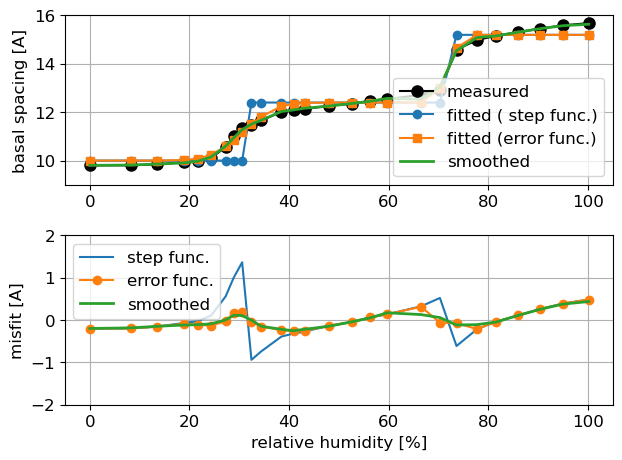
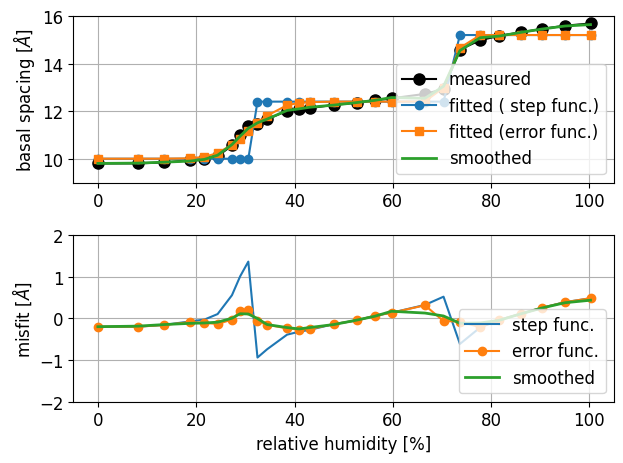
Canonical hydration energy(0th version)

Changed region(s): [[0.0, 0.487, 1.0, 0.9739], [0.0, 0.0, 0.9775, 0.4565]]

diff --git a/index.html b/index.html
@@ -236,6 +236,38 @@ CG系の粒子間相互作用エネルギーは，次のようなLenard-Jones(LJ
 		\label{eqn:MD_sw}
 	\end{equation}
 	を数値的にモデル化して使用可能な状態にすること．
+<li>01/16(Mon.)<br>
+	MD計算結果(MD_Data/
+	<a href="MD_Data/NaMt.dat">NaMt.dat</a>, 
+	<a href="MD_Data/CaMt.dat">CaMt.dat</a>)
+	<br>
+	いずれも水分子数0のときのデータを1行目に加筆.<br>
+	<br>
+	dn/dhの計算とグラフ表示には
+	<a href="MD_Data/mk_dndh.py">mk_dndh.py</a> --> mk_dndh.png(画像), mk_dndh.dat(データ)
+	を使用.<br>
+	<figure>
+	<center>
+		<img src="MD_Data/mk_dndh.png", width=500, height=400></img>
+		<figcaption>全原子MD解析で得られた水分子数\(n\)と層間距離\(h\)の関係(上)と，
+			層間距離に対する水分子数の増加率(下).
+		</figcaption>
+	</center>
+	</figure>
+	<br>
+	データ補間と水和エネルギーモデルの作成(<a href="uhyd.py">uhyd.py</a>)<br>
+	数値データは<a href="uhyd.dat">uhyd.dat</a>に保存される．
+	<br>
+	<figure>
+	<center>
+		<img src="uhyd.png", width=400, height=300></img>
+		<figcaption>
+		XRDデータ(rH_x.dat)とMDデータ(mk_dndh.dat)を元にしてモデル化した水和エネルギー関数.
+		</figcaption>
+	</center>
+	</figure>
+
+</li>
 </ul>
 <br>
 CG-MDのLJポテンシャル、d-N変換式の定式化

diff --git a/uhyd.py b/uhyd.py
@@ -1,0 +1,189 @@
+import numpy as np
+import matplotlib.pyplot as plt
+
+
+class MEAS:
+    def __init__(self,fname="rH_x.dat"):
+        fp=open(fname,"r")
+        fp.readline()
+
+        rH=[]
+        hz=[]
+        for row in fp:
+            dat=row.strip().split(",")
+            rH.append(float(dat[0]))
+            hz.append(float(dat[1]))
+        fp.close()
+
+        self.rH=np.array(rH)
+        self.hz=np.array(hz)
+    def plot(self,ax):
+        ax.plot(self.rH*100,self.hz,"ko-",markersize=8)
+        ax.set_xlabel("relative humidity [%]")
+        ax.set_ylabel("basal spacing [$\AA$]")
+        ax.grid(True)
+    def get_seg_ID(self,hz):
+        if hz<self.hz[0]:
+            return(-1)
+        if hz>=self.hz[-1]:
+            return(len(self.hz))
+
+        indx=np.argmin(np.abs(self.hz-hz))
+        h0=self.hz[indx]
+        dh=hz-h0
+        if dh>0:
+            return(indx)
+        else:
+            return(indx-1)
+
+    def rH_val(self,hz):
+        i1=self.get_seg_ID(hz);
+        if i1<0:
+            return(self.rH[0])
+        if i1>= len(self.hz):
+            return(self.rH[-1])
+        i2=i1+1
+        xi=(hz-self.hz[i1])/(self.hz[i2]-self.hz[i1])
+        eta=1.-xi
+        return(self.rH[i1]*eta+self.rH[i2]*xi)
+    """
+    def rH_val(self,hz):
+        if hz<self.hz[0]:
+            return(self.rH[0])
+        if hz>=self.hz[-1]:
+            return(self.rH[-1])
+
+        indx=np.argmin(np.abs(self.hz-hz))
+
+        h0=self.hz[indx]
+        dh=hz-h0
+        if dh>0:
+            i1=indx
+            i2=i1+1
+            xi=dh/(self.hz[i2]-self.hz[i1])
+            eta=1.-xi
+            return(self.rH[i1]*eta+self.rH[i2]*xi)
+        else:
+            i2=indx
+            i1=i2-1
+            eta=-dh/(self.hz[i2]-self.hz[i1])
+            xi=1.-eta
+            return(self.rH[i1]*eta+self.rH[i2]*xi)
+    """
+
+
+class SIM:
+    def __init__(self,fname):
+        fp=open(fname,"r")
+        fp.readline()
+        hz=[]
+        nH2O=[]
+        dndh=[]
+        for row in fp:
+            data=row.strip().split(",")
+            hz.append(float(data[0]))
+            nH2O.append(float(data[2]))
+            dndh.append(float(data[4]))
+
+        self.hz=np.array(hz)
+        self.nH2O=np.array(nH2O)
+        self.dndh=np.array(dndh)
+
+    def plot_nH2O(self,ax):
+        ax.plot(self.hz,self.nH2O,"ko-",markersize=8)
+        ax.set_xlabel("basal spacing [$\AA$]")
+        ax.set_ylabel("n(H2O)")
+        ax.grid(True)
+    def plot_dndh(self,ax):
+        ax.plot(self.hz,self.dndh,"ko-",markersize=8)
+        ax.set_xlabel("basal spacing [$\AA$]")
+        ax.set_ylabel("dn/dh[/$\AA$]")
+        ax.grid(True)
+
+    def get_seg_ID(self,hz):
+        if hz<self.hz[0]:
+            return(-1)
+        if hz>=self.hz[-1]:
+            return(len(self.hz))
+
+        indx=np.argmin(np.abs(self.hz-hz))
+        h0=self.hz[indx]
+        dh=hz-h0
+        if dh>0:
+            return(indx)
+        else:
+            return(indx-1)
+
+    def nH2O_val(self,hz):
+        i1=self.get_seg_ID(hz);
+        if i1<0:
+            return(self.nH2O[0])
+        if i1>= len(self.hz):
+            return(self.nH2O[-1])
+        i2=i1+1
+        xi=(hz-self.hz[i1])/(self.hz[i2]-self.hz[i1])
+        eta=1.-xi
+        return(self.nH2O[i1]*eta+self.nH2O[i2]*xi)
+
+    def dndh_val(self,hz):
+        i1=self.get_seg_ID(hz);
+        if i1<0:
+            return(self.dndh[0])
+        if i1>= len(self.hz):
+            return(self.dndh[-1])
+        i2=i1+1
+        xi=(hz-self.hz[i1])/(self.hz[i2]-self.hz[i1])
+        eta=1.-xi
+        return(self.dndh[i1]*eta+self.dndh[i2]*xi)
+
+
+if __name__=="__main__":
+    
+    plt.rcParams["font.size"]=12
+
+
+    h_xrd=MEAS(fname="rH_x.dat")    # load XRD-measured swelling curve 
+    h_sim=SIM("MD_Data/mk_dndh.dat")# load MD-generated swelling curve
+
+    hs=np.linspace(h_xrd.hz[-1],h_xrd.hz[0],201) # make h(basal spacing) axis
+    dndh=[] # dn(H2O)/dh
+    rH=[]   # relative humidity [0,1]
+    for h in hs:    # linearly interplated data
+        dndh.append(h_sim.dndh_val(h))
+        rH.append(h_xrd.rH_val(h))
+    dndh=np.array(dndh)
+    rH=np.array(rH)
+
+    fig=plt.figure()
+    ax=fig.add_subplot(111)
+    ax.plot(hs, dndh,"-ko",label="dn/dh")
+    ax.plot(hs, np.log(rH+1.e-08),"-o",label="log(rH)")
+
+    mu_sat=-1.0 # chemical potential of saturated H2O vapor 
+    dUdh=(mu_sat+np.log(rH+1.e-08))*dndh # Gradiendt of U_hyd (hydration energy/particle)
+    ax.plot(hs, dUdh,"-o",label="dU/dh(h)")
+    ax.grid(True)
+    ax.set_xlabel("basal spacing [$\AA$]")
+    ax.legend()
+    ax.set_ylim([-3.5,3])
+
+    Uh=np.cumsum(dUdh)*(hs[1]-hs[0])  #hydration energy
+    fig2=plt.figure()
+    ax2=fig2.add_subplot(111)
+    ax2.plot(hs,Uh,"k-",linewidth=2)
+    ax2.grid(True)
+    ax2.set_xlabel("basal spacing [$\AA$]")
+    ax2.set_ylabel("hyndration energy/particle/$\mu_{sat}$")
+
+    txt="# basal spacing [A], hydration energy\n"
+    for k in range(len(hs)):
+        txt+=str(hs[k])+", "+str(Uh[k])+"\n"
+
+    fp=open("uhyd.dat","w")
+    fp.write(txt)
+    fp.close()
+
+    fig2.savefig("uhyd.png",bbox_inches="tight")
+
+    plt.show()
+

diff --git a/MD_Data/mk_dndh.py b/MD_Data/mk_dndh.py
@@ -123,8 +123,9 @@ class DATA:
         ax.plot(self.nH2O,self.Uhyd)
         ax.set_ylabel("$U_{hyd}$")
     def plot_b_spc(self,ax):
-        ax.plot(self.nH2O,self.b_spc)
+        ax.plot(self.nH2O,self.b_spc,"-o",markersize=6)
         ax.set_ylabel("basal spacing")
+        ax.grid(True)
     def plot_cod_num(self,ax):
         ax.plot(self.nH2O,self.cod_num)
         ax.set_ylabel("coordination number")
@@ -165,41 +166,15 @@ if __name__=="__main__":
     Na.load() # load Na-Montmorillonite data
 
 
-#       LogLog Energy Plot
-    fig1=plt.figure()
-    ax=fig1.add_subplot(111)
-    ax.grid(True)
-    ax.set_aspect(1.0)
-    print("Na-Mt")
-    Na.plot_logU(ax,name="Na")    
-    print("Ca-Mt")
-    Ca.plot_logU(ax,name="Ca")
-    ax.legend()
-
-
-#       Deviatric components
-    fig3=plt.figure()
-    cx=fig3.add_subplot(111)
-    #Na_dev=Na.plot_dev(cx,m=1.09,name="Na") 
-    #Ca_dev=Ca.plot_dev(cx,m=1.0,name="Ca")
-    #Na_dev=Na.plot_dev(cx,m=1.15,name="Na") 
-    #Ca_dev=Ca.plot_dev(cx,m=1.04,name="Ca")
-    Na_dev=Na.plot_dev(cx,m=1.097,name="Na") 
-    Ca_dev=Ca.plot_dev(cx,m=0.963,name="Ca")
-    cx.grid(True)
-    cx.legend()
-
 #   ---------------------------------------------
 #      Variation in terms of h (basal spacing)
-    fig4=plt.figure()
-    ex1=fig4.add_subplot(141)
-    ex2=fig4.add_subplot(142)
-    ex3=fig4.add_subplot(143)
-    ex4=fig4.add_subplot(144)
-    ex=[ex1,ex2,ex3,ex4]
+    fig=plt.figure()
+    ex1=fig.add_subplot(211)
+    ex2=fig.add_subplot(212)
+    ex=[ex1,ex2]
 
-    ex1.plot(Ca.nH2O,Ca.b_spc,"or-",label="Ca")
-    ex1.plot(Na.nH2O,Na.b_spc,"ob-",label="Na")
+    ex1.plot(Ca.b_spc,Ca.nH2O,"or-",label="Ca")
+    ex1.plot(Na.b_spc,Na.nH2O,"ob-",label="Na")
     ex1.legend()
 
     nsmp=5
@@ -208,49 +183,44 @@ if __name__=="__main__":
     y2=smooth(Ca.b_spc,nsmp,extend=True)
     Na_dn=dn/cdiff(y1)
     Ca_dn=dn/cdiff(y2)
-    ex2.plot(Ca_dn,Ca.b_spc,"or-",label="Ca")
-    ex2.plot(Na_dn,Na.b_spc,"ob-",label="Na")
-
-    Na_mu=cdiff(smooth(Na_dev*Na.nH2O,nsmp,extend=True))/dn
-    Ca_mu=cdiff(smooth(Ca_dev*Ca.nH2O,nsmp,extend=True))/dn
-    ex3.plot(Ca_mu,Ca.b_spc,"ro-")
-    ex3.plot(Na_mu,Na.b_spc,"bo-")
-
-    Na_dC=cdiff(smooth(Na.cod_num,nsmp,extend=True))/dn
-    Ca_dC=cdiff(smooth(Ca.cod_num,nsmp,extend=True))/dn
-    ex4.plot(Ca_dC,Ca.b_spc,"ro-")
-    ex4.plot(Na_dC,Na.b_spc,"bo-")
+    ex2.plot(Ca.b_spc,Ca_dn,"or-",label="Ca")
+    ex2.plot(Na.b_spc,Na_dn,"ob-",label="Na")
+    ex2.legend()
 
 
     fsz=12
     for exj in ex:
         exj.grid(True)
-        exj.set_ylim([10.5,21.5])
+        exj.set_xlim([9.5,21.5])
         exj.tick_params(labelsize=fsz)
 
-        xlim=exj.get_xlim()
-        exj.hlines(12.4,xlim[0],xlim[1],linestyles="dashed")#,linewidth=2)
-        exj.hlines(15.6,xlim[0],xlim[1],linestyles="dashed")#,linewidth=2)
-        exj.hlines(19.0,xlim[0],xlim[1],linestyles="dashed")#,linewidth=2)
-        exj.set_xlim(xlim)
+        ylim=exj.get_ylim()
+        exj.vlines(12.4,ylim[0],ylim[1],linestyles="dashed")#,linewidth=2)
+        exj.vlines(15.6,ylim[0],ylim[1],linestyles="dashed")#,linewidth=2)
+        exj.vlines(19.0,ylim[0],ylim[1],linestyles="dashed")#,linewidth=2)
+        exj.set_ylim(ylim)
 
-    ex1.set_ylabel("Basal Spacing h",fontsize=12)
-    ex1.set_xlabel("n(H$_2$O)",fontsize=12)
-    ex2.set_xlabel("$dn/dh$",fontsize=12)
-    ex3.set_xlabel("$dU/dn$",fontsize=12)
-    ex4.set_xlabel("$dN_c/dn$",fontsize=12)
+    ex2.set_xlabel("Basal Spacing h [$\AA$]",fontsize=12)
+    ex1.set_ylabel("n(H$_2$O)",fontsize=12)
+    ex2.set_ylabel("$dn/dh$",fontsize=12)
 
-    ex2.plot(Ca_dn,Ca.b_spc,"or-",label="Ca")
-    ex2.plot(Na_dn,Na.b_spc,"ob-",label="Na")
+    ex2.plot(Ca.b_spc,Ca_dn,"or-",label="Ca")
+    ex2.plot(Na.b_spc,Na_dn,"ob-",label="Na")
 
+    print("ndat(Ca)=",len(Ca.nH2O), len(Ca.b_spc),len(Ca_dn))
+    print("ndat(Na)=",len(Na.nH2O), len(Na.b_spc),len(Na_dn))
 
-    txt="# basal spacing (Na, Ca), increment dn of H2O molecules(Na, Ca)\n"
+    txt="# basal spacing (Na, Ca), n(H2O)(Na, Ca), increment dn of H2O molecules(Na, Ca)\n"
     for k in range(len(Ca_dn)):
-        txt+=str(Na.b_spc[k])+", "+str(Ca.b_spc[k])+", "+str(Na_dn[k])+", "+str(Ca_dn[k])+"\n"
+        txt+=str(Na.b_spc[k])+", "+str(Ca.b_spc[k]);
+        txt+=", "+str(Na.nH2O[k])+", "+str(Ca.nH2O[k]);
+        txt+=", "+str(Na_dn[k])+", "+str(Ca_dn[k])+"\n"
 
-    fp=open("dndh.dat","w")
+    fp=open("mk_dndh.dat","w")
     fp.write(txt)
     fp.close()
+
+    fig.savefig("mk_dndh.png",bbox_inches="tight")
     plt.show()
 
 

diff --git a/mkgrph.py b/mkgrph.py
@@ -110,7 +110,7 @@ if __name__=="__main__":
     
     ax.plot(xcod*100,ycod,"ko-",markersize=8,label="measured")
     ax.set_xlabel("relative humidity [%]")
-    ax.set_ylabel("basal spacing [A]")
+    ax.set_ylabel("basal spacing [$\AA$]")
     ax.set_title("Na-Mt at 50[deg], Morodome & Kawamura (2009)",fontsize=12)
     fig1.savefig("swelling.png",bbox_inches="tight")
     
@@ -122,7 +122,7 @@ if __name__=="__main__":
     bx1.grid(True)
     bx1.set_xlim([-5,105.0])
     bx1.set_ylim([9,16.])
-    bx1.set_ylabel("basal spacing [A]")
+    bx1.set_ylabel("basal spacing [$\AA$]")
 
     bx2=fig2.add_subplot(212)
     bx2.plot(rH*100,ycod-y,"-",label="step func.")
@@ -131,7 +131,7 @@ if __name__=="__main__":
     bx2.set_xlim([-5,105.0])
     bx2.set_ylim([-2,2])
     bx2.set_xlabel("relative humidity [%]")
-    bx2.set_ylabel("misfit [A]")
+    bx2.set_ylabel("misfit [$\AA$]")
 
     dz0=ycod-z;
 
@@ -156,7 +156,7 @@ if __name__=="__main__":
     cx.set_xlim([9.5,16])
     #cx.set_ylim([-5,105])
     cx.set_title("log inverse swelling curve")
-    cx.set_xlabel("basal spacing $h$ [A]")
+    cx.set_xlabel("basal spacing $h$ [$\AA$]")
     cx.set_ylabel("log $\gamma_H(h) $")
 
     fig2.savefig("fitted.png",bbox_inches="tight")
